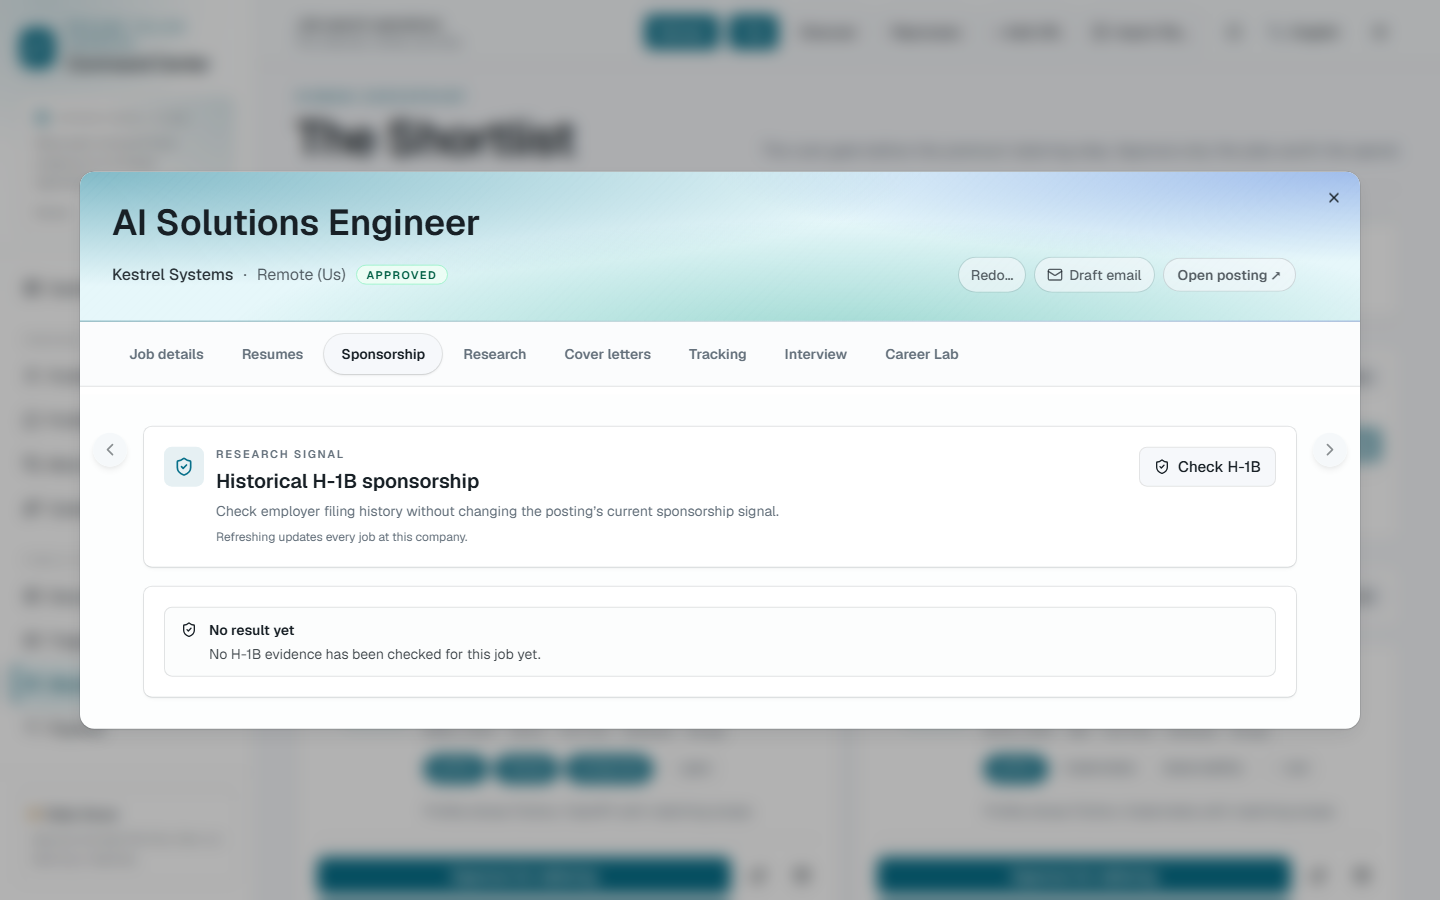
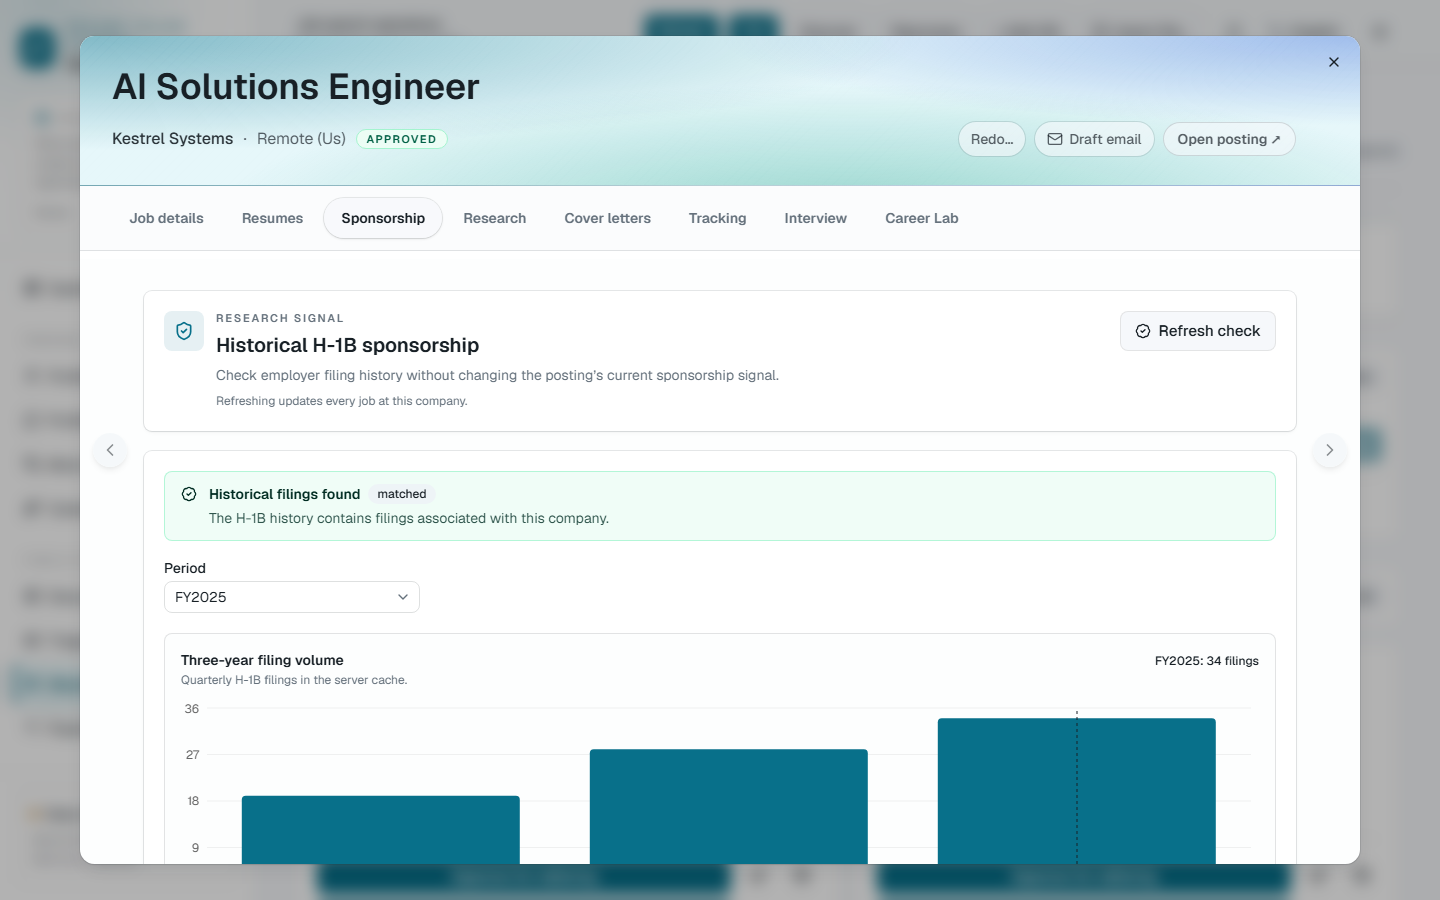
Update README mock interview caption and screenshots

diff --git a/README.md b/README.md
@@ -317,7 +317,7 @@ have left out, and drafts only claims grounded in what you actually answered:
 specific tailored role, then turns the conversation into a scored debrief you
 can act on:
 
-![Mock interviews — focused rehearsal and scored debrief](docs/screenshots/mock-interview.png)
+![Mock interviews — set up a rehearsal against a tailored role](docs/screenshots/mock-interview.png)
 
 **Career Lab** (`/career-lab`) is a draft-only workspace also available
 through the `career-lab` CLI command and the `/api/career-lab` REST
